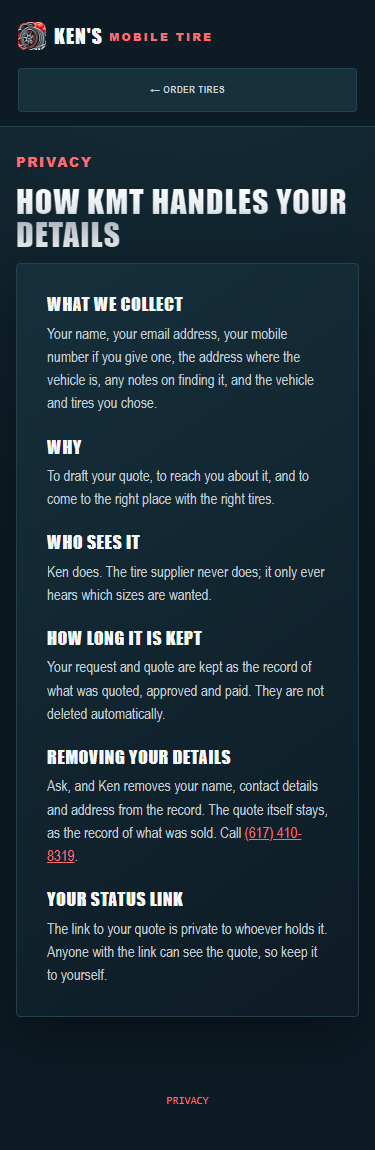
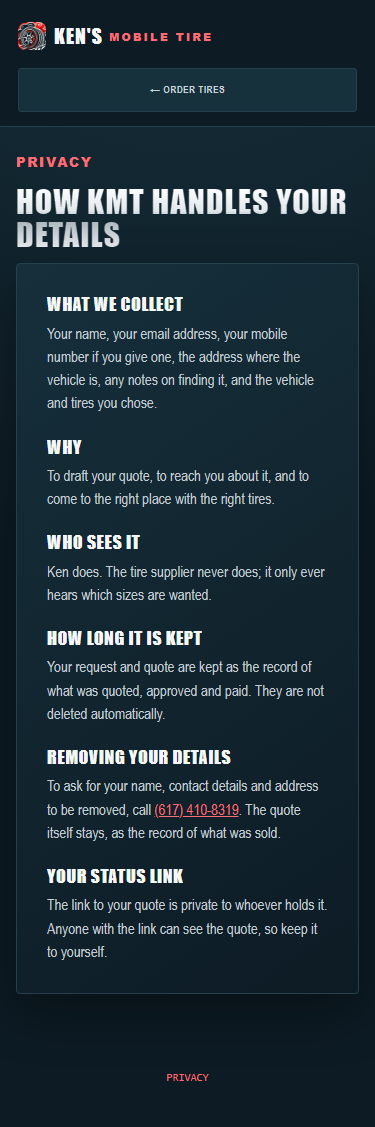
t50: the removal sentence as the lead ruled it, phone only
"To ask for your name, contact details and address to be removed, call
(617) 410-8319." No email route is named; the page gains one when the
business has an address of its own, from configuration, not from a file
in this repository. Rebased onto main at 29fb673 after #145 merged;
screenshots re-taken.

diff --git a/src/routes/Privacy.jsx b/src/routes/Privacy.jsx
@@ -28,7 +28,7 @@ function Privacy({ navigate }) {
           <h2>How long it is kept</h2>
           <p>Your request and quote are kept as the record of what was quoted, approved and paid. They are not deleted automatically.</p>
           <h2>Removing your details</h2>
-          <p>Ask, and Ken removes your name, contact details and address from the record. The quote itself stays, as the record of what was sold. Call <a href="tel:6174108319">(617) 410-8319</a>.</p>
+          <p>To ask for your name, contact details and address to be removed, call <a href="tel:6174108319">(617) 410-8319</a>. The quote itself stays, as the record of what was sold.</p>
           <h2>Your status link</h2>
           <p>The link to your quote is private to whoever holds it. Anyone with the link can see the quote, so keep it to yourself.</p>
         </div>
